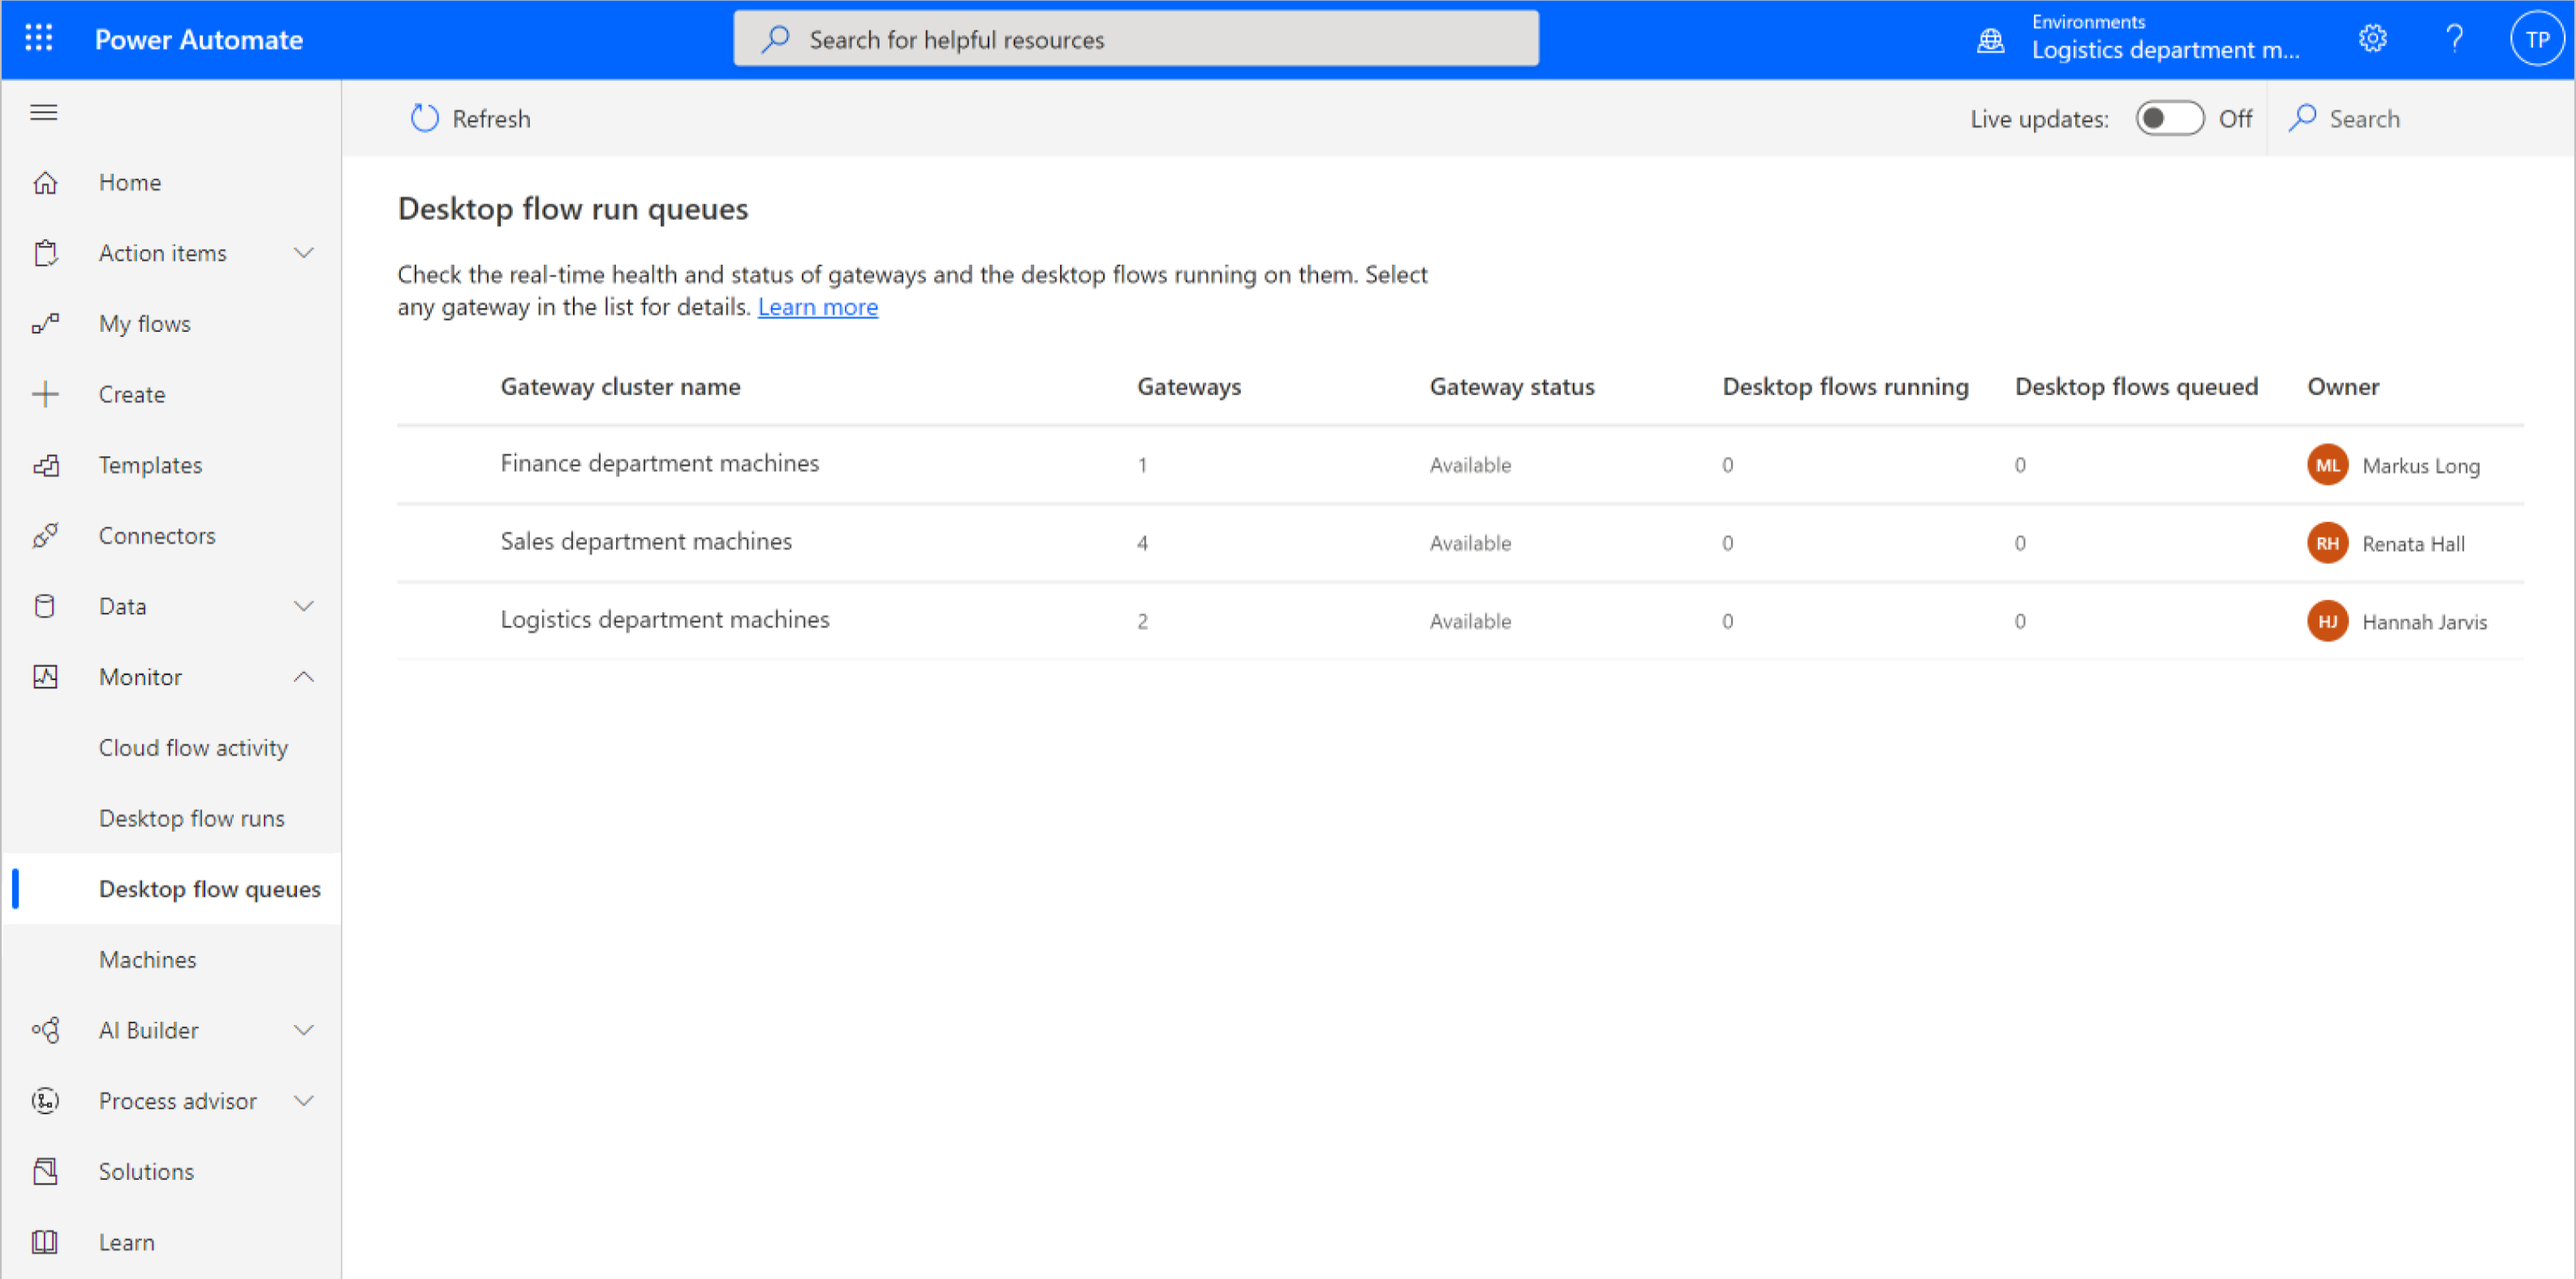
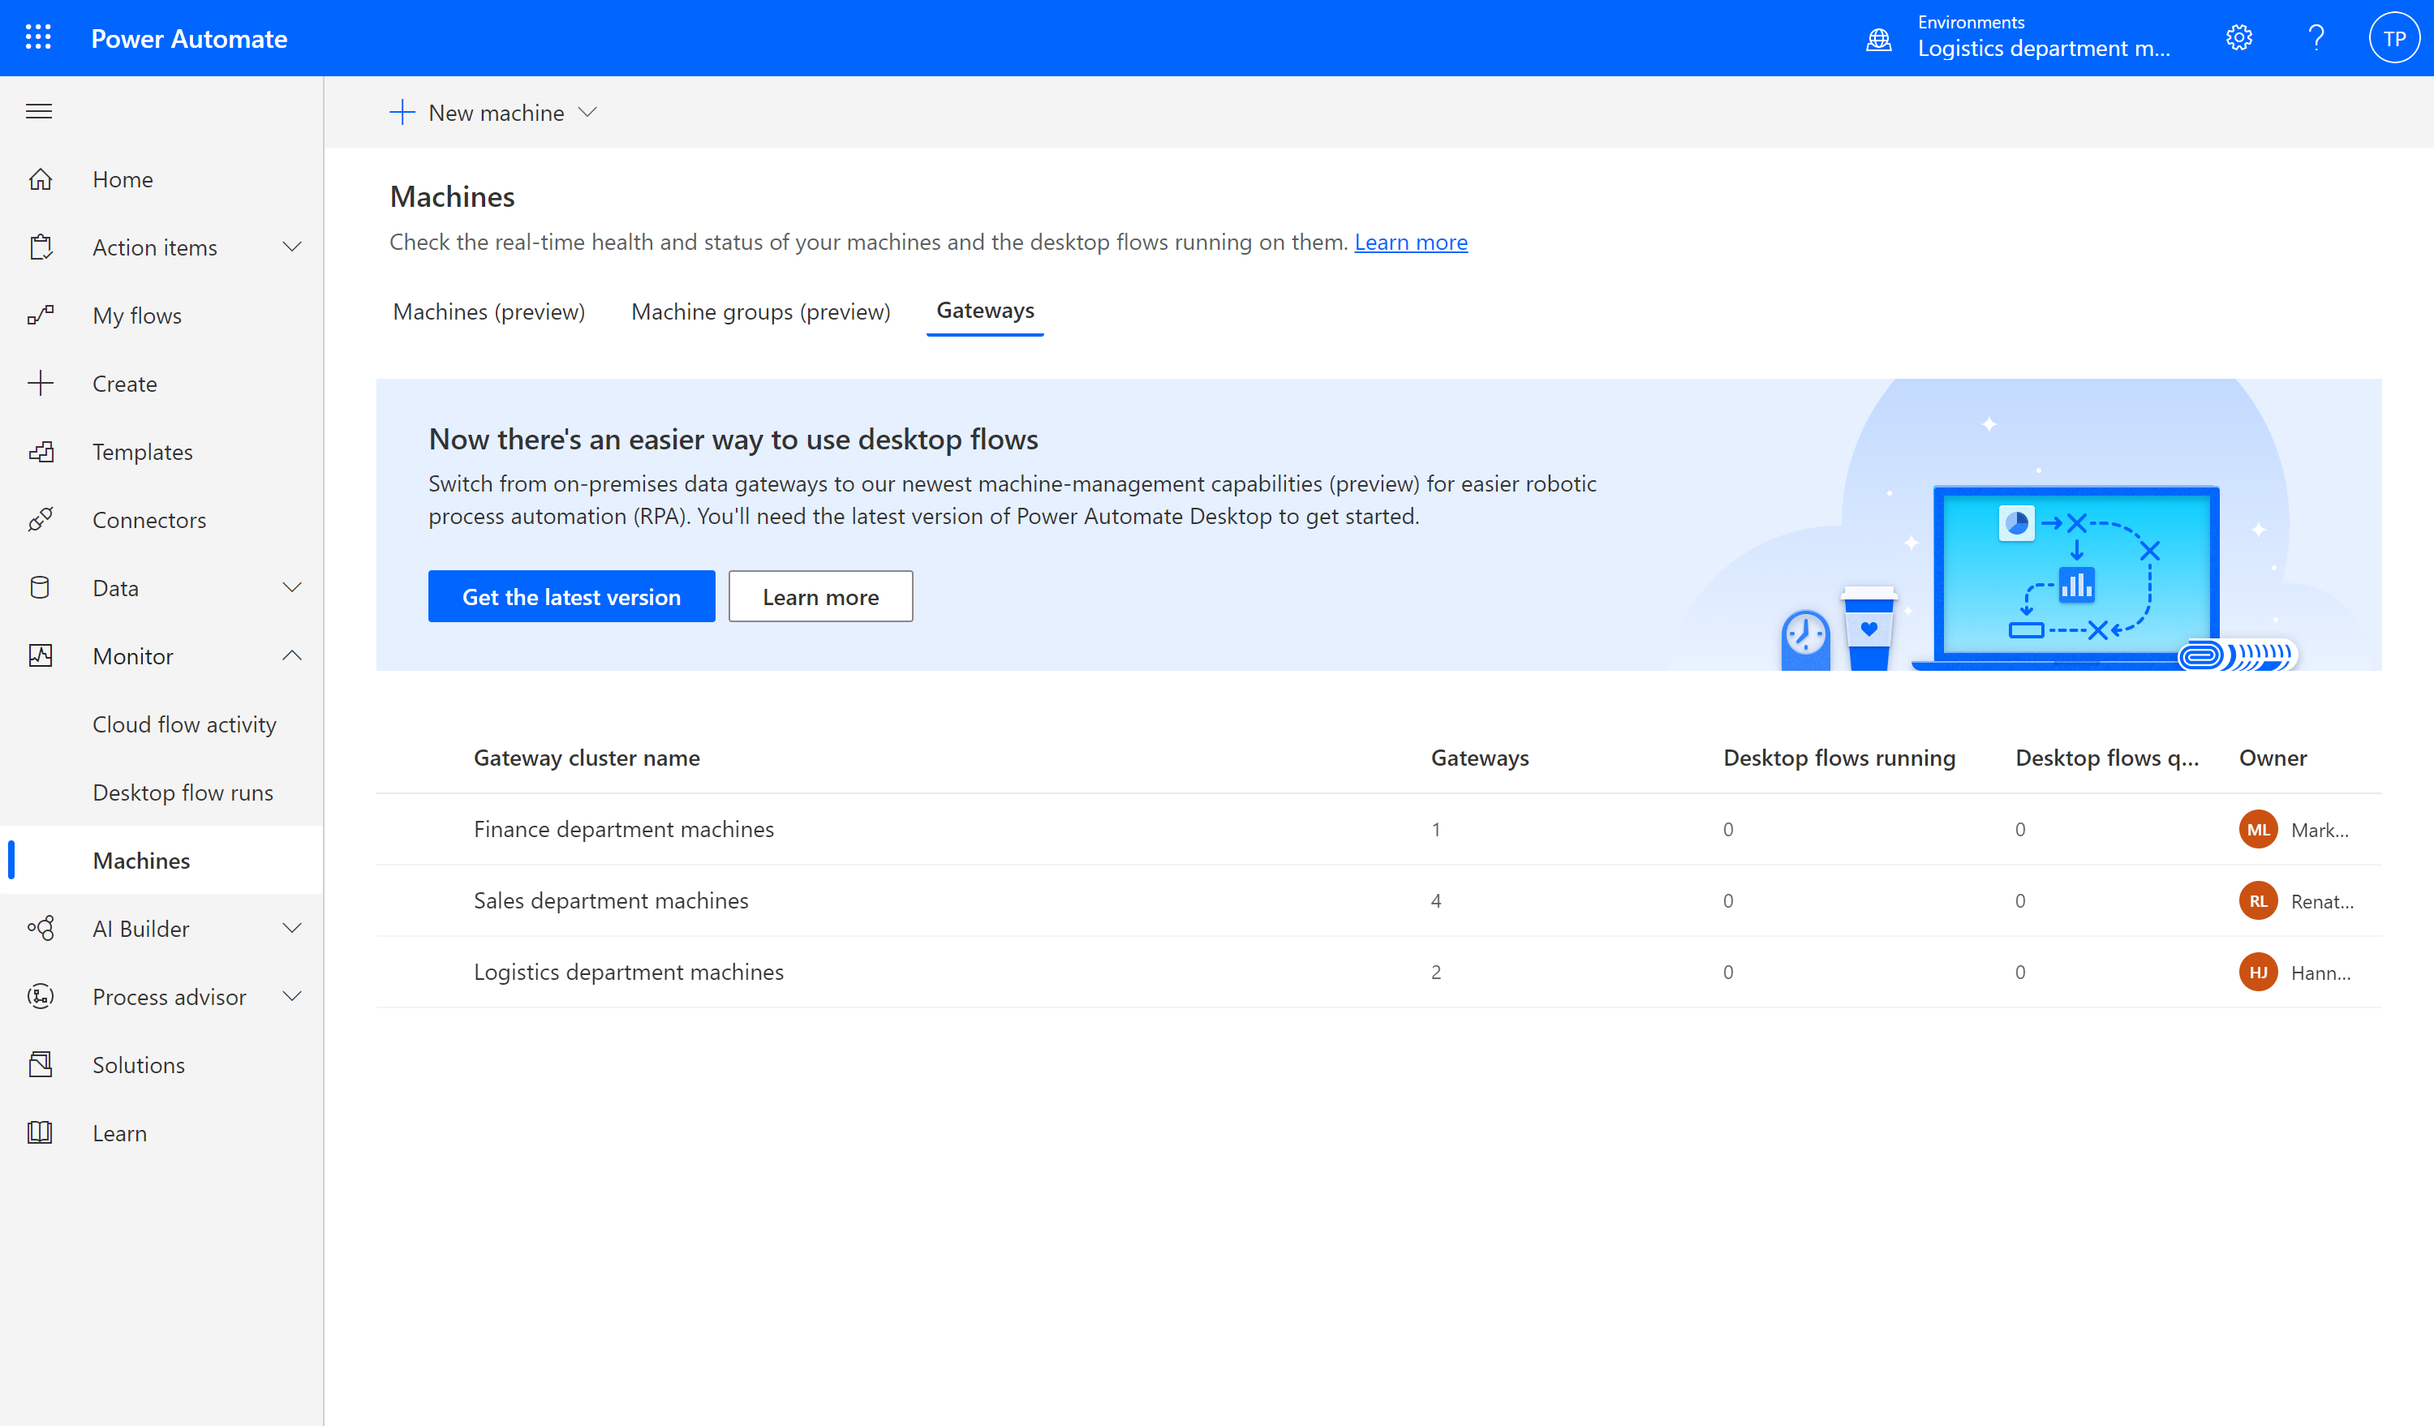
Updates in pad queues part3

diff --git a/articles/desktop-flows/monitor-desktop-flow-queues.md b/articles/desktop-flows/monitor-desktop-flow-queues.md
@@ -54,7 +54,8 @@ In order to see runs in this list, one of the following must be true:
 - You have [permission](/power-platform/admin/database-security) to see view all data in the environment
 
 > [!TIP]
-> To enable a user to view all the desktop flow runs in the current environment, ensure they have been assigned at least a System Administrator or Environment Admin security role for that environment. Learn more about configuring user security to resources.
+> To enable a user to view all the desktop flow runs in the current environment, ensure they have been assigned at least a System Administrator or Environment Admin security role for that environment. Learn more about configuring user security to resources in [Configure user security to resources in an environment](https://docs.microsoft.com/power-platform/admin/database-security#assign-security-roles-to-users-in-an-environment-that-has-a-dataverse-database).
+
 
 ## Queue Status
 A run in a queue can have the following status:
@@ -88,14 +89,12 @@ If you have permission to access the parent flow, you can use this action to vie
 If you are the owner of the flow, or have the role System Administrator or Environment Admin, you can cancel the parent flow run instance. This will cancel the current desktop flow as well as all the other action that were used in the parent flow.
 
 ## View list of run queues for gateways
-1. Sign into Power Automate
-1. Select **Monitor** > **Desktop flow queues**
+
+Users can view the desktop flow queues for their gateways under the **Machines page > Gateways pivot**. The gateways pivot is only available if you own or have access to a gateway.
 
   ![List of all desktop flow run queues.](media\monitoring\monitor-desktop-flow-queues-2.png)
 
 From this page you can view all the gateways to which you have access. Each gateway will have its own run queue when used to run desktop flows.
-
-Users can view the desktop flow queues for their gateways under the **Machines page > Gateways pivot**. The gateways pivot is only available if you own or have access to a gateway.
 
 ## Using gateways with multiple environments
 
